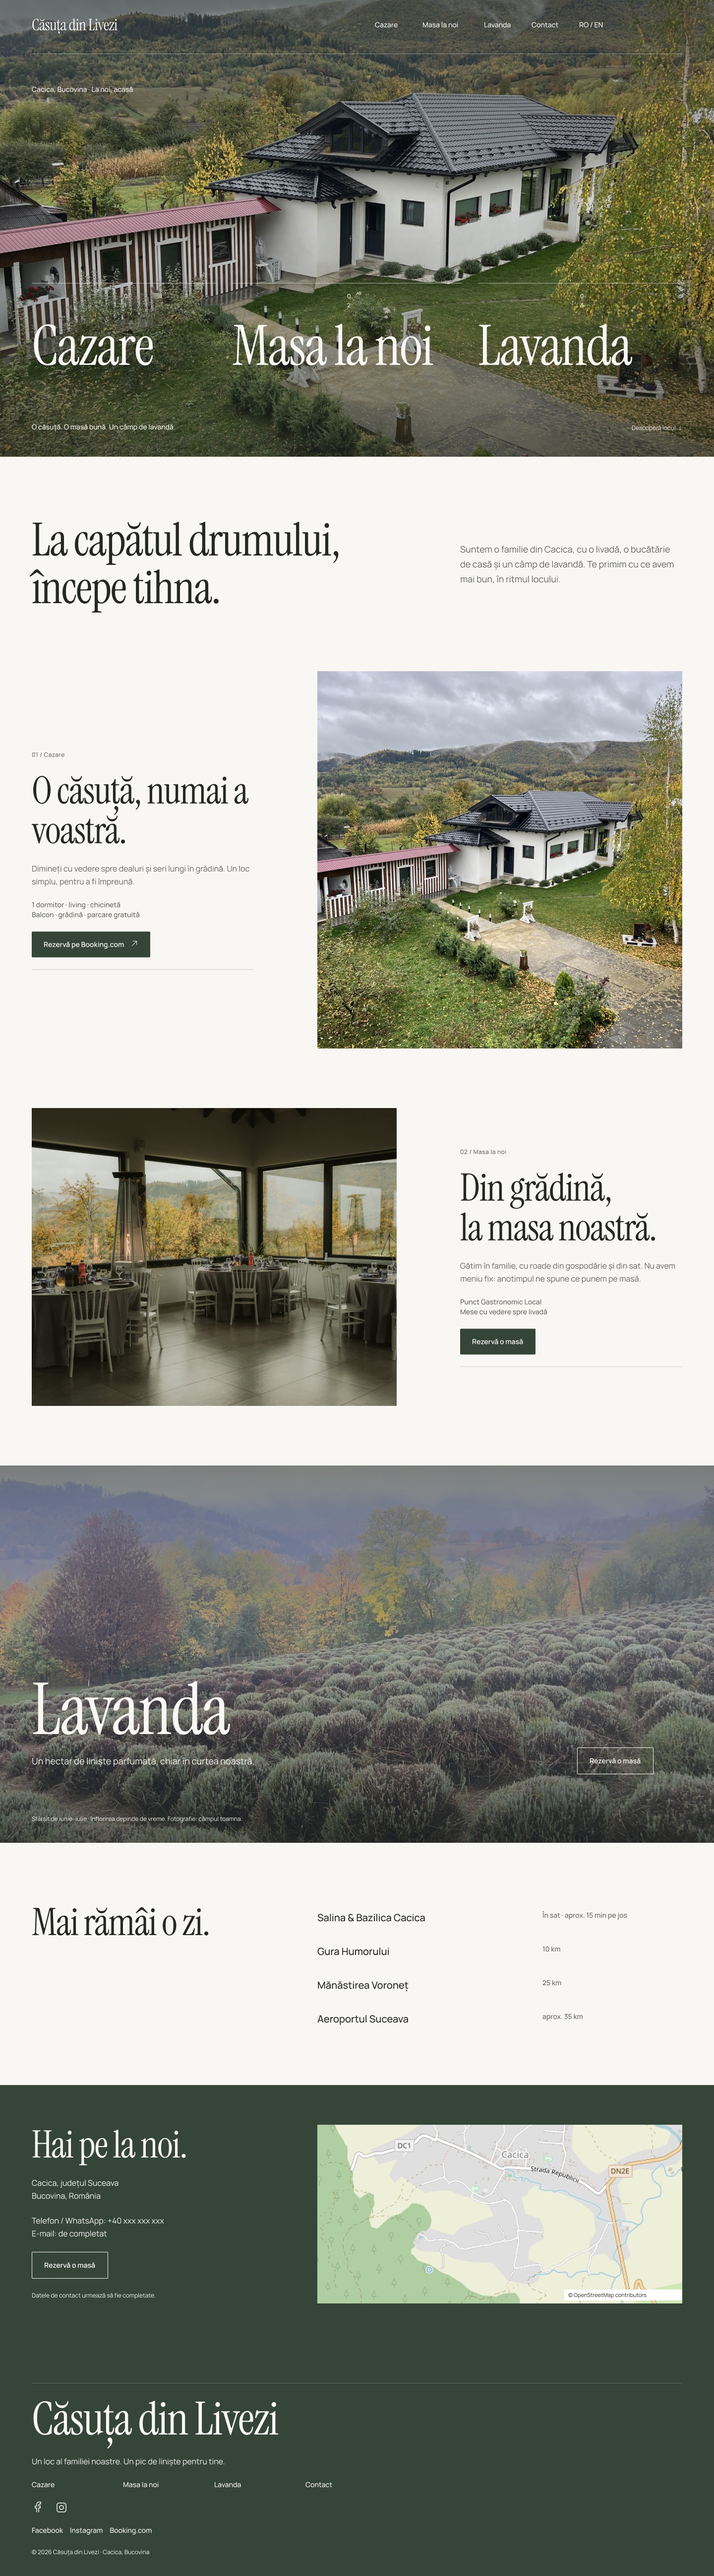
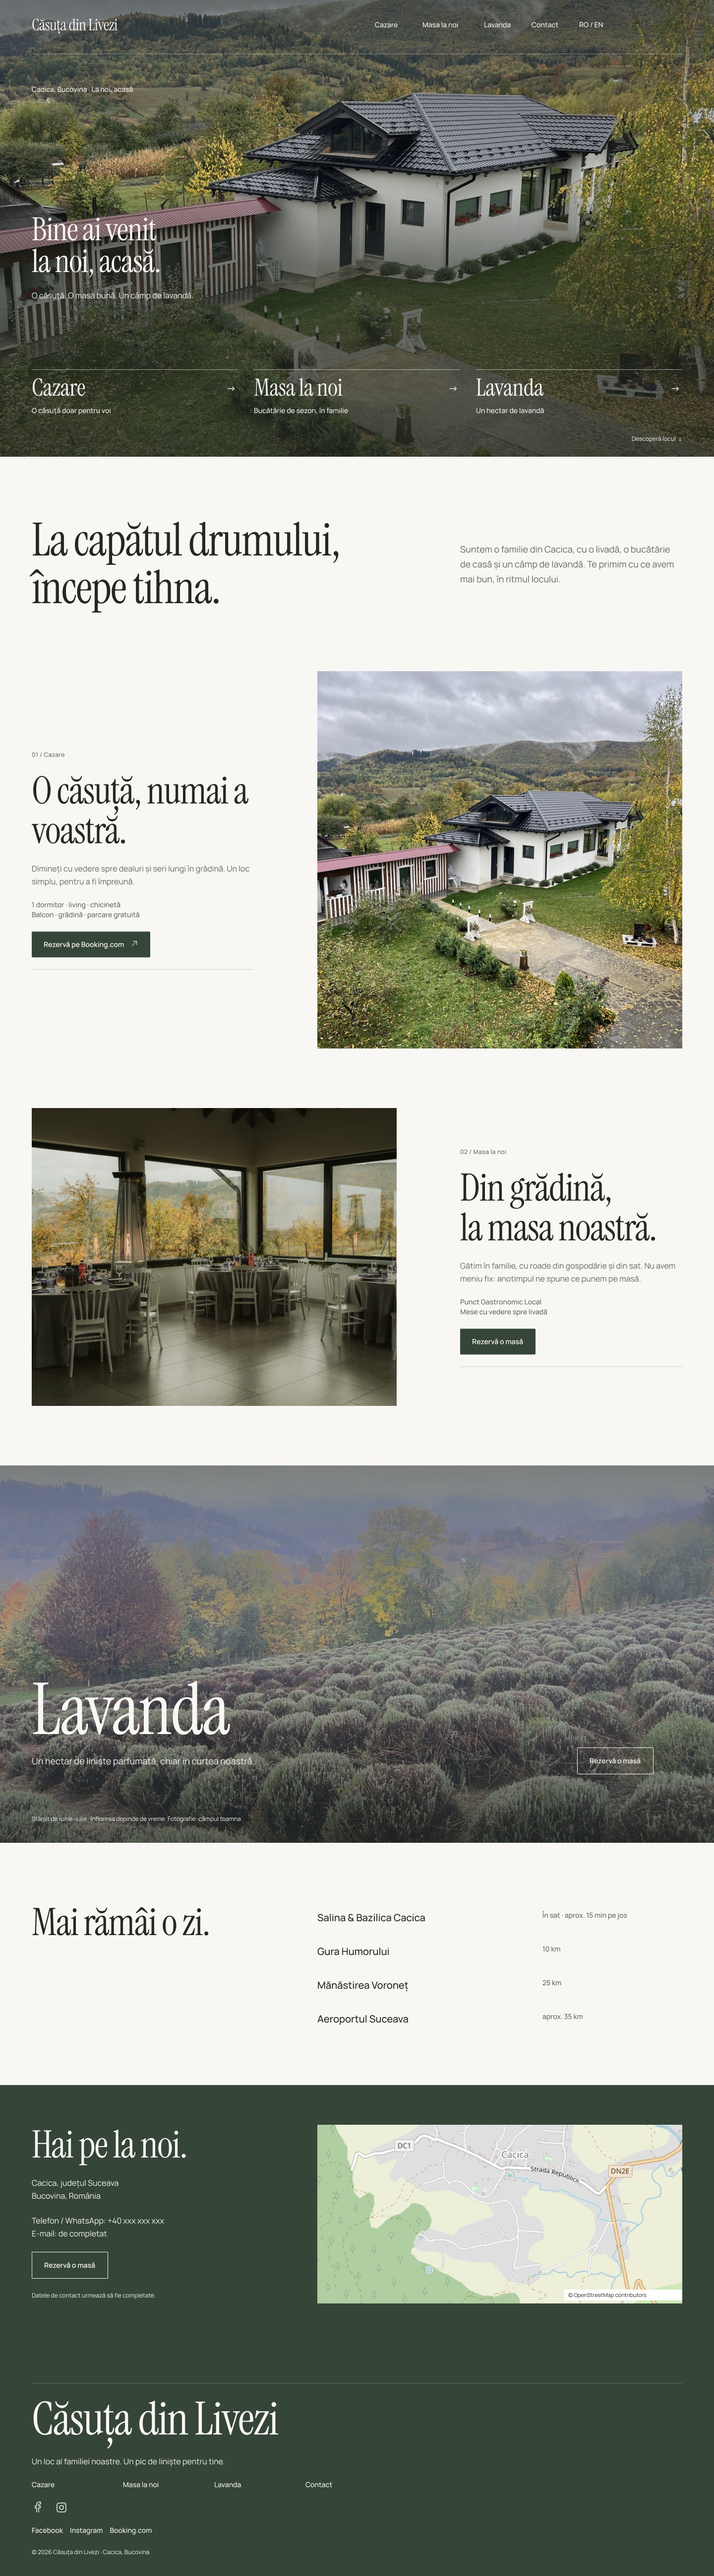
feat(home): match the redesigned hero from Figma
Greeting 'Bine ai venit la noi, acasă.', compact service selectors with
descriptions (arrows on desktop), a stronger contrast layer at the
bottom, and the updated Figma screens saved in docs/design/screens.
Service names scale below 390px so they stay on one line.

Changed region(s): [[0.0, 0.0624, 1.0, 0.1873]]

diff --git a/src/components/sections/HomeHero.tsx b/src/components/sections/HomeHero.tsx
@@ -1,16 +1,20 @@
 import Link from "next/link";
 import { SiteHeader } from "@/components/layout/SiteHeader";
 import { Container } from "@/components/ui/Container";
+import { Lines } from "@/components/ui/Lines";
 import { Photo } from "@/components/ui/Photo";
 import { PhotoContrast } from "@/components/ui/PhotoContrast";
 import { getDictionary, href, type Locale } from "@/content/i18n";
-import { site } from "@/content/site";
 
 const services = ["cazare", "masa", "lavanda"] as const;
 
-/** Home hero: photo, header, and the three service words (docs/design/specs/acasa.md). */
+/**
+ * Home hero: photo, header, greeting, and three compact service selectors at the
+ * bottom (docs/design/specs/acasa.md, Figma 6:271 / 6:262, updated 2026-11-15).
+ */
 export function HomeHero({ lang, introId }: { lang: Locale; introId: string }) {
   const t = getDictionary(lang);
+  const hero = t.home.hero;
 
   return (
     <section className="relative h-[800px] text-paper lg:h-[920px]">
@@ -23,37 +27,48 @@ export function HomeHero({ lang, introId }: { lang: Locale; introId: string }) {
           className="h-full"
         />
       </div>
-      <PhotoContrast />
+      <PhotoContrast variant="hero" />
 
       <Container className="relative flex h-full flex-col">
         <SiteHeader lang={lang} page="home" tone="onPhoto" rule="paper" />
         <p id="continut" tabIndex={-1} className="type-nav mt-[45px] outline-none lg:mt-[61px]">
-          {t.home.hero.place}
+          {hero.place}
         </p>
 
-        <h1 className="sr-only">{site.name}</h1>
-        <nav
-          aria-label={t.nav.servicesLabel}
-          className="mt-auto grid gap-4 lg:grid-cols-[372fr_464fr_412fr] lg:gap-8"
-        >
-          {services.map((page, i) => (
-            <Link key={page} href={href(lang, page)} className="group flex flex-col gap-1 lg:gap-4">
-              <span aria-hidden="true" className="h-px bg-paper/60" />
-              {/* Figma keeps a 36px box here; the number sits at its top. */}
-              <span aria-hidden="true" className="type-index h-9">
-                {String(i + 1).padStart(2, "0")}
-              </span>
-              <span className="type-service-link group-hover:underline group-hover:decoration-1 group-hover:underline-offset-8">
-                {t.nav[page]}
-              </span>
-            </Link>
-          ))}
-        </nav>
+        {/* Bottom block. Mobile order: greeting, line, "Descoperă locul", services.
+            Desktop order: greeting, line, services, "Descoperă locul" on the right. */}
+        <div className="mt-auto flex flex-col pb-[69px] lg:pb-7">
+          <h1 className="type-hero-intro">
+            <Lines lines={hero.title} />
+          </h1>
+          <p className="type-body mt-4 max-w-[640px] lg:mt-6">{hero.tagline}</p>
 
-        <div className="mt-[21px] flex flex-col gap-4 pb-4 lg:mt-[95px] lg:flex-row lg:items-start lg:justify-between lg:pb-[50px]">
-          <p className="type-nav">{t.home.hero.tagline}</p>
-          <a href={`#${introId}`} className="type-caption self-end hover:underline hover:underline-offset-4 lg:mt-0.5">
-            {t.home.hero.discover}  ↓
+          <nav
+            aria-label={t.nav.servicesLabel}
+            className="order-4 mt-4 grid grid-cols-[98fr_122fr_98fr] gap-3 lg:order-3 lg:mt-[136px] lg:grid-cols-3 lg:gap-8"
+          >
+            {services.map((page) => (
+              <Link key={page} href={href(lang, page)} className="group flex flex-col gap-2">
+                <span aria-hidden="true" className="h-px bg-paper/60" />
+                <span className="flex items-center justify-between gap-2">
+                  <span className="type-service-selector group-hover:underline group-hover:decoration-1 group-hover:underline-offset-8">
+                    {t.nav[page]}
+                  </span>
+                  <span aria-hidden="true" className="type-h3 hidden transition-transform group-hover:translate-x-1 lg:inline">
+                    →
+                  </span>
+                </span>
+                <span className="type-caption lg:hidden">{hero.services[page].short}</span>
+                <span className="type-nav hidden lg:inline">{hero.services[page].long}</span>
+              </Link>
+            ))}
+          </nav>
+
+          <a
+            href={`#${introId}`}
+            className="type-caption order-3 mt-7 self-start hover:underline hover:underline-offset-4 lg:order-4 lg:mt-[37px] lg:self-end"
+          >
+            {hero.discover}  ↓
           </a>
         </div>
       </Container>

diff --git a/src/components/ui/PhotoContrast.tsx b/src/components/ui/PhotoContrast.tsx
@@ -2,11 +2,18 @@ import { cn } from "@/lib/cn";
 
 /**
  * The "Photo contrast" layer from Figma, laid over photos that carry paper text.
- * - "home" (Acasă): ink 55% at the top, 12% at 45% of the height, 70% at the bottom.
+ * - "hero" (Acasă hero): ink 55% at the top, 12% at 38%, 62% at 58%, 80% at the bottom.
+ * - "home" (Lavanda band on Acasă): 55% at the top, 12% at 45% of the height, 70% at the bottom.
  * - "page" (service page heroes): 55%, 8% at `middle`% (35 on Cazare, 40 on Masa la
  *   noi), 72%.
  */
-export function PhotoContrast({ variant = "home", middle = 35 }: { variant?: "home" | "page"; middle?: number }) {
+export function PhotoContrast({
+  variant = "home",
+  middle = 35,
+}: {
+  variant?: "hero" | "home" | "page";
+  middle?: number;
+}) {
   return (
     <div
       aria-hidden="true"
@@ -14,6 +21,8 @@ export function PhotoContrast({ variant = "home", middle = 35 }: { variant?: "ho
         "absolute inset-0",
         variant === "home" &&
           "bg-[linear-gradient(180deg,rgb(35_40_32/0.55)_0%,rgb(35_40_32/0.12)_45%,rgb(35_40_32/0.7)_100%)]",
+        variant === "hero" &&
+          "bg-[linear-gradient(180deg,rgb(35_40_32/0.55)_0%,rgb(35_40_32/0.12)_38%,rgb(35_40_32/0.62)_58%,rgb(35_40_32/0.8)_100%)]",
       )}
       style={
         variant === "page"

diff --git a/src/styles/tokens.css b/src/styles/tokens.css
@@ -50,14 +50,29 @@
   }
 }
 
-@utility type-service-link {
+/* Home hero greeting ("Bine ai venit⏎la noi, acasă."): 44/48 mobile, 64/64 desktop. */
+@utility type-hero-intro {
   font-family: var(--font-serif);
-  font-size: 64px;
-  line-height: 1;
+  font-size: 44px;
+  line-height: calc(48 / 44);
   letter-spacing: -0.02em;
   @media (width >= 64rem) {
-    font-size: clamp(64px, 7.778vw, 112px);
-    line-height: calc(116 / 112);
+    font-size: clamp(44px, 4.444vw, 64px);
+    line-height: 1;
+  }
+}
+
+/* Home hero service selectors: 32/40 mobile, 48/56 desktop, letter spacing −1%.
+   On phones the size follows the width of the three columns, so "Masa la noi" stays on
+   one line: 32px at the 390 design, about 25px at 320. */
+@utility type-service-selector {
+  font-family: var(--font-serif);
+  font-size: clamp(24px, calc((100vw - 72px) * 0.1007), 32px);
+  line-height: 1.25;
+  letter-spacing: -0.01em;
+  @media (width >= 64rem) {
+    font-size: clamp(32px, 3.333vw, 48px);
+    line-height: calc(56 / 48);
   }
 }
 

diff --git a/src/content/ro.ts b/src/content/ro.ts
@@ -44,6 +44,13 @@ export const ro = {
     hero: {
       place: "Cacica, Bucovina · La noi, acasă",
       tagline: "O căsuță. O masă bună. Un câmp de lavandă.",
+      title: ["Bine ai venit", "la noi, acasă."],
+      // Under each service in the hero: long on desktop, short on mobile.
+      services: {
+        cazare: { long: "O căsuță doar pentru voi", short: "Doar pentru voi" },
+        masa: { long: "Bucătărie de sezon, în familie", short: "Bucătărie de sezon" },
+        lavanda: { long: "Un hectar de lavandă", short: "Un hectar de lavandă" },
+      },
       discover: "Descoperă locul",
     },
     intro: {

diff --git a/src/content/en.ts b/src/content/en.ts
@@ -46,6 +46,13 @@ export const en: typeof ro = {
     hero: {
       place: "Cacica, Bucovina · Our home",
       tagline: "A cottage. A good meal. A lavender field.",
+      title: ["Welcome", "to our home."],
+      // Under each service in the hero: long on desktop, short on mobile.
+      services: {
+        cazare: { long: "A cottage just for you", short: "Just for you" },
+        masa: { long: "Seasonal cooking, as a family", short: "Seasonal cooking" },
+        lavanda: { long: "A hectare of lavender", short: "A hectare of lavender" },
+      },
       discover: "Discover the place",
     },
     intro: {

diff --git a/src/app/[lang]/styleguide/page.tsx b/src/app/[lang]/styleguide/page.tsx
@@ -20,7 +20,8 @@ const colors = [
 
 const type = [
   ["Display", "type-display", "Lavanda"],
-  ["Service link", "type-service-link", "Masa la noi"],
+  ["Hero intro", "type-hero-intro", "Bine ai venit la noi, acasă."],
+  ["Service selector", "type-service-selector", "Masa la noi"],
   ["Statement", "type-statement", "La capătul drumului, începe tihna."],
   ["H2", "type-h2", "O căsuță, numai a voastră."],
   ["Wordmark", "type-wordmark", "Căsuța din Livezi"],

diff --git a/docs/design/specs/acasa.md b/docs/design/specs/acasa.md
@@ -11,28 +11,31 @@ Contact → footer. Section heights (desktop / mobile): 920/800, 432/368, 880/93
 Between 1024 and 1440 the desktop columns keep the Figma proportions (fr units) and the
 128px column gap shrinks with the width; photos keep the Figma aspect ratio.
 
-## Hero → `HomeHero`
+## Hero → `HomeHero` (redesigned in Figma on 2026-11-15)
 
-Photo `casa-de-sus-cu-dealuri`, cover. Contrast layer: ink, top to bottom
-55% → 12% (at 45%) → 70%.
+Photo `casa-de-sus-cu-dealuri`, cover. Contrast layer (`PhotoContrast variant="hero"`):
+ink 55% at the top, 12% at 38%, 62% at 58%, 80% at the bottom.
 
 | | Desktop (920 tall) | Mobile (800 tall) |
 |---|---|---|
 | Header | onPhoto, rule in paper at 40% | same |
 | "Cacica, Bucovina · La noi, acasă" (Nav, paper) | y 170 | y 130 |
-| Service entries | y 570, one row, columns 372 / 464 / 412, 32 apart | y 350, stacked, 16 apart |
-| Entry | rule (paper 60%), 16, number box 36, 16, word | rule, 4, number box 36, 4, word |
-| Word | Serif 112/116 | Serif 64/64 |
-| Bottom line "O căsuță. O masă bună. Un câmp de lavandă." (Nav) | y 850, left | y 730, left |
-| "Descoperă locul ↓" (Caption) | y 852, right-aligned | y 766, right-aligned |
+| Greeting "Bine ai venit⏎la noi, acasă." (h1) | Serif 64/64, −2%, y 430 | Serif 44/48, y 438 |
+| Line "O căsuță. O masă bună. Un câmp de lavandă." | Body M, 24 under the greeting | Body M, 16 under |
+| Services | 136 under the line; 3 equal columns, 32 apart | 16 under "Descoperă locul"; columns 98 / 122 / 98, 12 apart |
+| "Descoperă locul ↓" (Caption) | 37 under the services, right-aligned; 28 from the bottom | 28 under the line, left-aligned |
+| Space under the last item | 28 | 69 (under the services) |
 
-The three words link to Cazare, Masa la noi and Lavanda. "Descoperă locul ↓" jumps to
-"Bun venit".
+Each service selector links to its page: a 1px rule (paper 60%), 8, the name and, on
+desktop, an arrow "→" (Manrope Medium 20/28) at the right end, 8, a description.
 
-Decision: in Figma the numbers "01", "02", "03" sit in zero-width text boxes, so each
-digit wraps onto its own line. That is a glitch, not a design choice. The code shows
-"01" on one line in the Index style, at the left, inside the same 36px box so the words
-stay where Figma puts them.
+| | Name style | Description |
+|---|---|---|
+| Desktop | Serif 48/56, −1% | Nav (Manrope Medium 14/20): "O căsuță doar pentru voi", "Bucătărie de sezon, în familie", "Un hectar de lavandă" |
+| Mobile | Serif 32/40, −1% | Caption (12/18): "Doar pentru voi", "Bucătărie de sezon", "Un hectar de lavandă" |
+
+Decision: below 390px wide the mobile name size follows the column width (about 25px at
+320) so "Masa la noi" stays on one line; at 390 it is exactly the Figma 32px.
 
 ## Bun venit → `IntroStatement`
 

diff --git a/docs/design/tokens.md b/docs/design/tokens.md
@@ -27,7 +27,8 @@ unless noted. Sizes are font size / line height in px.
 | Style | Font | Mobile | Desktop | Used for |
 |---|---|---|---|---|
 | Display | Serif | 64/64 | 144/144 | Largest page titles |
-| Service link | Serif | 64/64 | 112/116 | The three words on the home hero |
+| Hero intro | Serif | 44/48 | 64/64 | Home hero greeting |
+| Service selector | Serif, −1% | 32/40 | 48/56 | The three services at the bottom of the home hero |
 | Statement | Serif | 44/48 | 92/96 | Opening statement under the hero |
 | H2 | Serif | 44/48 | 76/80 | Section headings |
 | Footer wordmark | Serif | 64/64 | 92/96 | "Căsuța din Livezi" in the footer |
@@ -66,7 +67,7 @@ Figma size at 1440px.
 ## In code
 
 Colours are Tailwind utilities (`bg-forest`, `text-muted`, `border-line`). Type
-styles are single classes: `type-display`, `type-service-link`, `type-statement`,
+styles are single classes: `type-display`, `type-hero-intro`, `type-service-selector`, `type-statement`,
 `type-h2`, `type-footer-wordmark`, `type-wordmark`, `type-h3`, `type-body-l`, `type-body`, `type-button`,
 `type-nav`, `type-accent`, `type-index`, `type-caption`, `type-attribution`.
 Compare the result with Figma at `/styleguide`.
